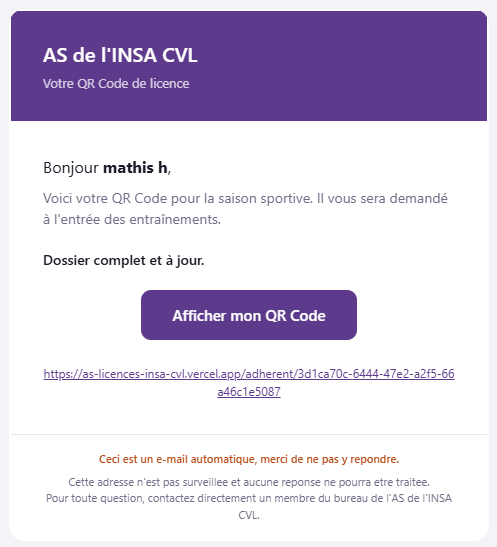
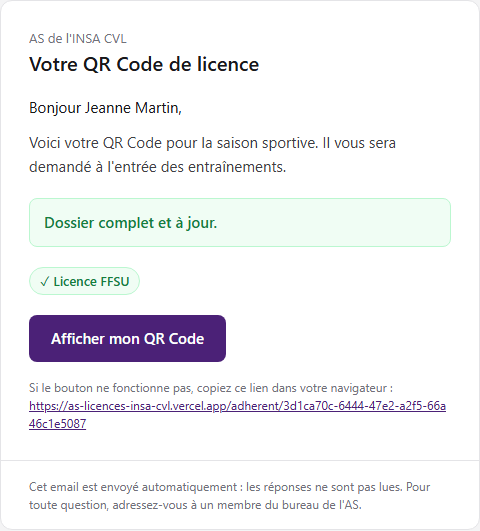
Docs: mettre à jour les captures d'emails du tutoriel

diff --git a/e2e/emails-tuto.spec.js b/e2e/emails-tuto.spec.js
@@ -1,0 +1,35 @@
+// Régénère les captures d'emails du tutoriel (public/tuto/) à partir du HTML
+// réellement envoyé, sans rien envoyer. Non lancé par défaut :
+//   TUTO=1 npx playwright test e2e/emails-tuto.spec.js --project=ordinateur
+import { test } from '@playwright/test';
+import { emailQrCode, emailRelance } from '../src/lib/emails.js';
+import { calculerStatutLicence } from '../src/lib/licence.js';
+
+test.skip(!process.env.TUTO, 'régénération manuelle uniquement');
+
+const LIEN = 'https://as-licences-insa-cvl.vercel.app/adherent/3d1ca70c-6444-47e2-a2f5-66a46c1e5087';
+const DATE = '16/06/2026';
+
+const aJour = {
+  prenom: 'Jeanne', nom: 'Martin',
+  questionnaire_sante_ok: true, paiement_global: true, licence_ffsu_a_jour: true,
+};
+const incomplet = {
+  prenom: 'Lucas', nom: 'Bernard',
+  questionnaire_sante_ok: true, paiement_global: false, manque_paiement: true, manque_yeps: true,
+};
+
+const EMAILS = [
+  ['envoi-emails-1', emailQrCode(aJour, calculerStatutLicence(aJour), LIEN, DATE)],
+  ['envoi-emails-2', emailQrCode(incomplet, calculerStatutLicence(incomplet), LIEN, DATE)],
+  ['envoi-emails-3', emailRelance(incomplet, calculerStatutLicence(incomplet), DATE)],
+];
+
+for (const [nom, email] of EMAILS) {
+  test(nom, async ({ page }) => {
+    await page.setViewportSize({ width: 560, height: 900 });
+    await page.setContent(email.html);
+    // Capture de la carte seule, comme dans une boîte mail.
+    await page.locator('table table').first().screenshot({ path: `public/tuto/${nom}.png` });
+  });
+}

diff --git a/README.md b/README.md
@@ -62,6 +62,7 @@ Déployée sur **[as-licences-insa-cvl.vercel.app](https://as-licences-insa-cvl.
 │   ├── scan.spec.js                   # Résultat du scan terrain
 │   ├── adherent.spec.js               # Page publique adhérent
 │   ├── captures.spec.js               # Captures d'écran pour revue visuelle (CAPTURES=1, non lancé par défaut)
+│   ├── emails-tuto.spec.js            # Régénère les images d'emails du tutoriel (TUTO=1, non lancé par défaut)
 │   └── outils.js                      # Aides communes (ouverture, détection de débordements)
 │
 ├── src/
@@ -86,6 +87,9 @@ Déployée sur **[as-licences-insa-cvl.vercel.app](https://as-licences-insa-cvl.
 │   ├── lib/
 │   │   ├── licence.js                 # Calcul du statut de licence et messages
 │   │   ├── licence.test.js            # Tests unitaires (Vitest)
+│   │   ├── emails.js                  # Contenu des emails (QR Code, relance), utilisé par api/send-qr.js
+│   │   ├── emails.test.js             # Tests unitaires (Vitest)
+│   │   ├── useTitrePage.js            # Titre de l'onglet propre à chaque page
 │   │   ├── supabase.js                # Client Supabase côté client
 │   │   ├── texte.js                   # Utilitaires texte (nomComplet, reparerTexte, comparerParNom)
 │   │   ├── texte.test.js              # Tests unitaires (Vitest)
